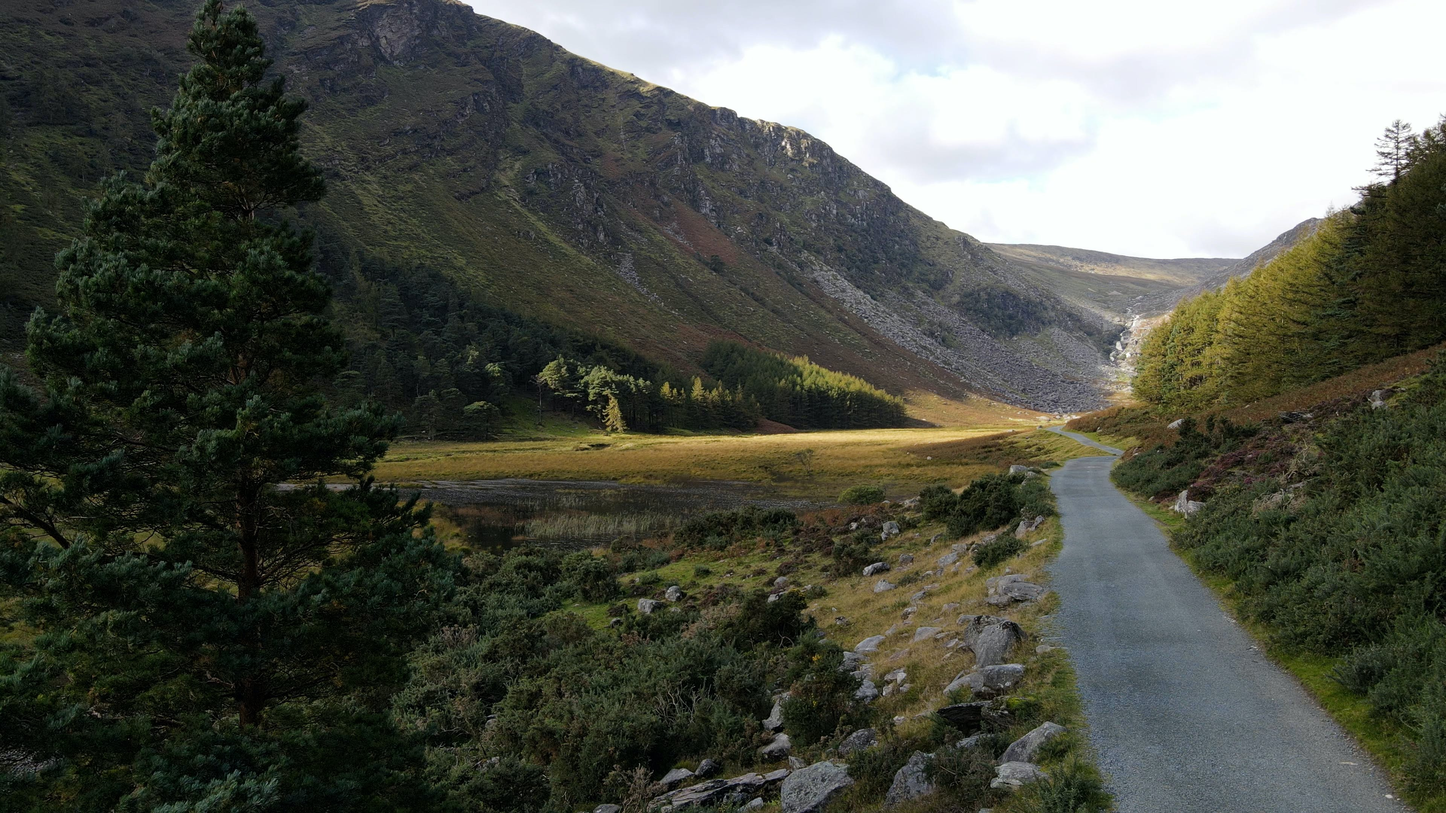
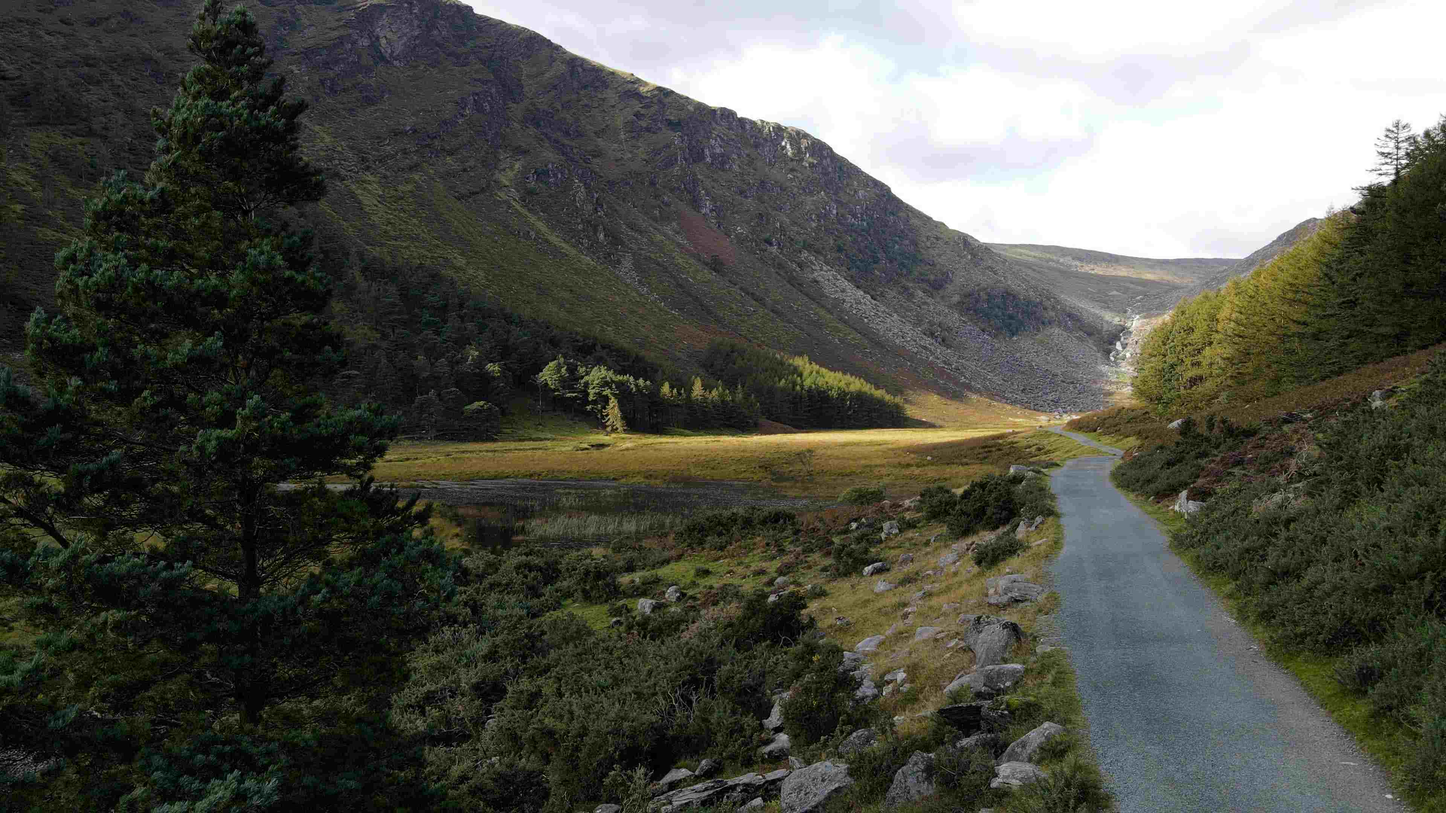
fix html validation issues

Changed region(s): [[0.8125, 0.4032, 0.8438, 0.4653]]

diff --git a/about.html b/about.html
@@ -2,9 +2,9 @@
 <html lang="en">
 
 <head>
-    <meta charset="UTF-8" />
-    <meta http-equiv="X-UA-Compatible" content="IE=edge" />
-    <meta name="viewport" content="width=device-width, initial-scale=1.0" />
+    <meta charset="UTF-8">
+    <meta http-equiv="X-UA-Compatible" content="IE=edge">
+    <meta name="viewport" content="width=device-width, initial-scale=1.0">
     <!-- Meta tags for search engines -->
     <meta name="description"
         content="sioga. Online Yoga and Mindfullness Meditation Classes. Hatha Yoga. Yoga as Gaeilge. Yoga in the Irish language.">
@@ -43,9 +43,9 @@
     <main>
         <section class="offerings-hero">
             <div class="offerings-overlay">
-            <div class="offerings-float">
-                <h1 class="white-heading">Offerings</h1>
-            </div>
+                <div class="offerings-float">
+                    <h1 class="white-heading">Offerings</h1>
+                </div>
             </div>
         </section>
 
@@ -66,34 +66,35 @@
                     <!-- table with class day, time and type -->
                     <div class="timetable-container">
                         <table class="timetable">
-                            <h3 class="offers-heading">Timetable</h3>
-                            <tr>
-                                <th>Day</th>
-                                <th>Time</th>
-                                <th>Class</th>
-                            </tr>
-                            <tr>
-                                <td>Mon</td>
-                                <td>08:30am</td>
-                                <td>Yoga Asana</td>
-                            </tr>
-                            <tr>
-                                <td>Wed</td>
-                                <td>07:00pm</td>
-                                <td>Meditaion Circle</td>
-                            </tr>
-                            <tr>
-                                <td>Friday</td>
-                                <td>10:00am</td>
-                                <td>Yoga Asana</td>
-                            </tr>
+                            <div class="offers-heading">
+                                <tr>
+                                    <th>Day</th>
+                                    <th>Time</th>
+                                    <th>Class</th>
+                                </tr>
+                                <tr>
+                                    <td>Mon</td>
+                                    <td>08:30am</td>
+                                    <td>Yoga Asana</td>
+                                </tr>
+                                <tr>
+                                    <td>Wed</td>
+                                    <td>07:00pm</td>
+                                    <td>Meditaion Circle</td>
+                                </tr>
+                                <tr>
+                                    <td>Friday</td>
+                                    <td>10:00am</td>
+                                    <td>Yoga Asana</td>
+                                </tr>
+                            </div>
                         </table>
                     </div>
 
                 </div>
-                
+
             </div>
-            
+
         </section>
 
     </main>

diff --git a/index.html b/index.html
@@ -2,9 +2,9 @@
 <html lang="en">
 
 <head>
-    <meta charset="UTF-8" />
-    <meta http-equiv="X-UA-Compatible" content="IE=edge" />
-    <meta name="viewport" content="width=device-width, initial-scale=1.0" />
+    <meta charset="UTF-8">
+    <meta http-equiv="X-UA-Compatible" content="IE=edge">
+    <meta name="viewport" content="width=device-width, initial-scale=1.0">
     <!-- Meta tags for search engines -->
     <meta name="description"
         content="sioga. Online Yoga and Mindfullness Meditation Classes. Hatha Yoga. Yoga as Gaeilge. Yoga in the Irish language.">
@@ -108,11 +108,11 @@
             </li>
             <li>
                 <a href="https://www.twitter.com/" target="_blank" rel="noopener"
-                    aria-label="Visit our page on X FKA Twitter (opens in new tab)"><i class="fa-brands fa-x-twitter" ;></i></a>
+                    aria-label="Visit our page on X FKA Twitter (opens in new tab)"><i class="fa-brands fa-x-twitter"></i></a>
             </li>
             <li>
                 <a href="https://www.youtube.com/" target="_blank" rel="noopener"
-                    aria-label="Visit our YouTube page (opens in new tab)"><i class="fa-brands fa-youtube"></i></i></a>
+                    aria-label="Visit our YouTube page (opens in new tab)"><i class="fa-brands fa-youtube"></i></a>
             </li>
             <li>
                 <a href="https://www.instagram.com/" target="_blank" rel="noopener"

diff --git a/signup.html b/signup.html
@@ -2,9 +2,9 @@
 <html lang="en">
 
 <head>
-    <meta charset="UTF-8" />
-    <meta http-equiv="X-UA-Compatible" content="IE=edge" />
-    <meta name="viewport" content="width=device-width, initial-scale=1.0" />
+    <meta charset="UTF-8">
+    <meta http-equiv="X-UA-Compatible" content="IE=edge">
+    <meta name="viewport" content="width=device-width, initial-scale=1.0">
     <!-- Meta tags for search engines -->
     <meta name="description"
         content="sioga. Online Yoga and Mindfullness Meditation Classes. Hatha Yoga. Yoga as Gaeilge. Yoga in the Irish language.">
@@ -75,7 +75,7 @@
             <li>
                 <a href="https://www.twitter.com/" target="_blank" rel="noopener"
                     aria-label="Visit our page on X FKA Twitter (opens in new tab)"><i class="fa-brands fa-x-twitter"
-                        ;></i></a>
+                        ></a>
             </li>
             <li>
                 <a href="https://www.youtube.com/" target="_blank" rel="noopener"

diff --git a/contact.html b/contact.html
@@ -63,8 +63,7 @@
             </li>
             <li>
                 <a href="https://www.twitter.com/" target="_blank" rel="noopener"
-                    aria-label="Visit our page on X FKA Twitter (opens in new tab)"><i class="fa-brands fa-x-twitter"
-                        ;></i></a>
+                    aria-label="Visit our page on X FKA Twitter (opens in new tab)"><i class="fa-brands fa-x-twitter"></a>
             </li>
             <li>
                 <a href="https://www.youtube.com/" target="_blank" rel="noopener"

diff --git a/assets/css/style.css b/assets/css/style.css
@@ -203,8 +203,6 @@ main {
 .offers-heading {
     background-color: #ccccff;
     padding: 5px 50px 5px 10px;
-    /*
-    box-shadow: 0 2px 2px #333333; */
 }
 
 /* Timetable*/

diff --git a/readme.md b/readme.md
@@ -4,7 +4,7 @@ sioga is a website for learning yoga and meditation techniques."Sióga" is an Ir
 
 Sióg believes yoga is a powerful tool for healing and growth, but also recognises that it can be inaccessible. Sióga aims to help yogis from any background and of any experience level feel like they can find benefit out of a yoga practice regardless of financial situation, class, gender, race, ethnicity, sexual orientation, disability or location.
 
-![responsive-screenshot](/assets/images/sioga-responsive-allpages.png)
+![responsive-screenshot](../sioga/assets/images/sioga-website.png)
 
 [View sióga on Github Pages](https://siogeile.github.io/sioga/)
 
@@ -102,10 +102,6 @@ I wanted to use a font that had some small hint of how sanskrit script looks, bu
 ![fonts-light](/assets/images/wordmarkit-googlefonts-previews-light.png "Comfortaa and Ubuntu dark on light Font Preview from wordmark.it")
 ![fonts-dark](/assets/images/wordmarkit-googlefonts-previews.png "Comfortaa and Ubuntu light on dark Font Preview from wordmark.it")
 
-### Imagery
-
-Planned imagery used through site
-
 ### Wireframes
 
 <details>
@@ -176,9 +172,9 @@ Planned imagery used through site
 
 #### Page specific features
 
-- __Is yoga for me infographic__
+- __Is yoga for me__
 
-  - A visual section on the landing page that answers questions with clarity and shows the user the benefits of yoga.
+  - A text section on the landing page that answers questions with clarity and lets users know what to expect from a class
 
   - The user will see the value of sioga classes and encourage them to encorporate yoga into their daily routine.
 
@@ -198,8 +194,6 @@ Planned imagery used through site
 
   - A text section containing contact information for site visitors
 
-[amiresponsive](https://ui.dev/amiresponsive) screenshots of each page and featureof the site here
-
 ### Future Implementations
 
 - A thank you page the user is redirected to upon sign-up
@@ -207,12 +201,6 @@ Planned imagery used through site
 - A 404 Page
 
 - A contact form that allows users to write a message directly into the site rather than leaving to visit other social media pages or their email account
-
-### Accessibility
-
-Have you used icons and added aria-labels to enable screen readers to understand these?
-Have you ensured your site meets the minimum contrast requirements?
-Have you chosen fonts that are dyslexia/accessible friendly?
 
 ## Technologies Used
 
@@ -223,29 +211,57 @@ Have you chosen fonts that are dyslexia/accessible friendly?
 
 ### Frameworks, Libraries & Programs Used
 
-Add any frameworks, libraries or programs used while creating your project.
+Balsamiq - Used to create wireframes.
 
-Make sure to include things like git, GitHub, the program used to make your wireframes, any programs used to compress your images, did you use a CSS framework like Bootstrap? If so add it here (add the version used).
+Git - For version control.
 
-A great tip for this section is to include them as you use them, that way you won't forget what you ended up using when you get to the end of your project.
+Github - To save and store the files for the website.
+
+[Coolors](https://coolors.co/) - To select the colour palette for the site.
+
+[Google Fonts](https://fonts.google.com/) - To import the fonts used on the website.
+
+[Font Awesome](https://fontawesome.com/) - For the iconography on the website.
+
+Google Dev Tools - To troubleshoot and test features, solve issues with responsiveness and styling.
+
+[ezgif](https://ezgif.com/) - To compress images.
+
+[Favicon.io](https://favicon.io/) To create favicon.
+
+[Am I Responsive?](https://ui.dev/amiresponsive) To show the website image on a range of devices.
 
 ## Deployment & Local Development
 
 ### Deployment
 
-Include instructions here on how to deploy your project. For your first project you will most likely be using GitHub Pages.
+The site is deployed using GitHub Pages. Visit the deployed site [here](https://siogeile.github.io/sioga/index.html). To deploy using GitHub pages:
+
+1. Login or Sign Up to GitHub.
+2. Open the project repository.
+3. Click on "Settings" on the navigation bar under the repository title.
+4. Click on "Pages" in the left hand navigation panel.
+5. Under "Source", choose which branch to deploy. This should be Main for newer repositories (older repositories may still use Master).
+6. Choose which folder to deploy from, usually "/root".
+7. Click "Save", then wait for it to be deployed. It can take some time for the page to be fully deployed.
+8. Your URL will be displayed above "Source".
 
 ### Local Development
 
-The local development section gives instructions on how someone else could make a copy of your project to play with on their local machine. This section will get more complex in the later projects, and can be a great reference to yourself if you forget how to do this.
-
 #### How to Fork
 
-Place instructions on how to fork your project here.
+1. Log in (or sign up) to Github.
+2. Go to the repository for this project, sioga.
+3. Click the Fork button in the top right corner.
 
 #### How to Clone
 
-Place instructions on how to clone your project here.
+1. Log in (or sign up) to GitHub.
+2. Go to the repository for this project, sioga.
+3. Click on the code button, select whether you would like to clone with HTTPS, SSH or GitHub CLI and copy the link shown.
+4. Open the terminal in your code editor and change the current working directory to the location you want to use for the cloned directory.
+5. Type 'git clone' into the terminal and then paste the link you copied in step 3.
+6. Press enter.
 
 ## Testing
 
